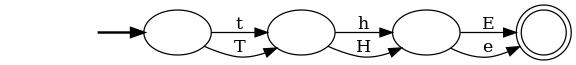
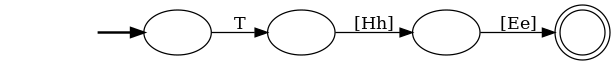
[patterns] support character classes in fsm diagrams

Changed region(s): [[0.1562, 0.0615, 1.0, 0.9538]]

diff --git a/pudzu/sandbox/patterns.py b/pudzu/sandbox/patterns.py
@@ -14,7 +14,7 @@ from itertools import product
 from pathlib import Path
 from pyparsing import printables as ascii_printables, pyparsing_unicode as ppu, srange  # type: ignore
 from tempfile import TemporaryDirectory
-from typing import cast, Any, Dict, Iterable, List, Optional, Set, Tuple, Union
+from typing import cast, Any, Dict, Iterable, List, Optional, Set, Sequence, Tuple, Union
 
 from pudzu.utils import optional_import, merge, merge_with, first  # type: ignore
 
@@ -137,6 +137,8 @@ class NFA:
         fg = "white" if console else "black"
         g = graphviz.Digraph(format="svg")
         g.attr(rankdir="LR", bgcolor=bg)
+
+        # states
         for s in self.states:
             if s == self.start:
                 g.node(str(s), root="true", label="", color=fg)
@@ -146,20 +148,35 @@ class NFA:
                 g.node(str(s), shape="doublecircle", label="", color=fg)
             else:
                 g.node(str(s), label="", color=fg)
-        # TODO: merge parallel edges into classes or ranges
+
+        # transitions
+        reverse_dict = {}
         for (s, i), ts in self.transitions.items():
             if not ts:
                 g.node(str(("fail", s)), label="", color=fg)
             for t in ts or {("fail", s)}:
-                label: str = {Move.ALL: "*", Move.EMPTY: "ε"}.get(i, i).replace("\\", "\\\\")  # type: ignore
-                if self.captures.get((s, i), set()):
-                    label += f" {{{','.join(self.captures[(s, i)])}}}"
-                g.edge(str(s), str(t), label=label, color=fg, fontcolor=fg)
+                c = frozenset(self.captures.get((s, i), set()))
+                reverse_dict.setdefault(s, {}).setdefault((t, c), set()).add(i)
+
+        for s, d in reverse_dict.items():
+            for (t, c), ii in d.items():
+                for input in (i for i in ii if isinstance(i, Move)):
+                    label = {Move.ALL: "*", Move.EMPTY: "ε"}[input]
+                    if c:
+                        label += f" {{{','.join(c)}}}"
+                    g.edge(str(s), str(t), label=label, color=fg, fontcolor=fg)
+                input = "".join(sorted(i for i in ii if isinstance(i, str)))
+                if len(input) >= 1:
+                    label = char_class(input)
+                    if c:
+                        label += f" {{{','.join(c)}}}"
+                    g.edge(str(s), str(t), label=label, color=fg, fontcolor=fg)
 
         g.render(filename=name + ".dot")
 
     def save(self, name: str, renumber_states: bool = True) -> None:
         """Save FSM as a .fsm file."""
+        # TODO: save and load capture groups
 
         def sort_key(s):
             # Q: is there a better state ordering?
@@ -179,21 +196,18 @@ class NFA:
             )
 
         with open(name + ".fsm", "w", encoding="utf-8") as f:
+            reverse_dict = {}
+            for (s, i), ts in self.transitions.items():
+                reverse_dict.setdefault(s, {}).setdefault(frozenset(ts), set()).add(i)
             for state in sorted_states:
                 from_label = label(state)
-                reverse_dict = {}
-                for (s, i), ts in self.transitions.items():
-                    if state == s:
-                        reverse_dict.setdefault(frozenset(ts), set()).add(i)
-                for ts, ii in reverse_dict.items():
+                for ts, ii in reverse_dict.get(state, {}).items():
                     to_labels = " ".join(label(t) for t in ts)
                     for input in (i for i in ii if isinstance(i, Move)):
                         print(f"{from_label} {str(input).replace('Move.','')} {to_labels}", file=f)
                     input = "".join(sorted(i for i in ii if isinstance(i, str)))
                     if len(input) >= 1:
-                        # TODO: combine into ranges when possible?
-                        input = input if len(input) == 1 else f"[{input}]"
-                        print(f"{from_label} {input} {to_labels}", file=f)
+                        print(f"{from_label} {char_class(input)} {to_labels}", file=f)
 
     def example(self, min_length: int = 0, max_length: Optional[int] = None) -> Optional[str]:
         """Generate a random matching string. Assumes NFA has been trimmed of states that can't reach the end."""
@@ -294,6 +308,12 @@ class NFA:
         # converts to a regex, though there's probably a more efficient way
         max_length = self.regex().max_length()
         return int(max_length) if math.isfinite(max_length) else None
+
+
+def char_class(chars: Sequence[str]) -> str:
+    """Generate a character class description of the given characters"""
+    # TODO: handle ranges
+    return chars if len(chars) == 1 else f"[{''.join(sorted(chars))}]"
 
 
 # NFA constructors
@@ -792,8 +812,9 @@ def MatchInsensitively(nfa: NFA) -> NFA:
         if isinstance(i, str):
             transitions.setdefault((s, i.lower()), set()).update(ts)
             transitions.setdefault((s, i.upper()), set()).update(ts)
-            captures.setdefault((s, i.lower()), set()).update(nfa.captures.get((s, i), set()))
-            captures.setdefault((s, i.upper()), set()).update(nfa.captures.get((s, i), set()))
+            if nfa.captures.get((s, i), set()):
+                captures.setdefault((s, i.lower()), set()).update(nfa.captures.get((s, i), set()))
+                captures.setdefault((s, i.upper()), set()).update(nfa.captures.get((s, i), set()))
         else:
             transitions[(s, i)] = ts
     return NFA(nfa.start, nfa.end, transitions, captures)
@@ -1313,7 +1334,7 @@ REFERENCES
     parser.add_argument("-r", dest="regex", action="store_true", help="generate a standard equivalent regex")
     parser.add_argument("-b", dest="bounds", action="store_true", help="generate lexicographic match bounds")
     group = parser.add_mutually_exclusive_group()
-    group.add_argument("-X", dest="examples_only", metavar='N', type=int, help="output N example matches and quit")
+    group.add_argument("-X", dest="examples_only", metavar="N", type=int, help="output N example matches and quit")
     group.add_argument("-R", dest="regex_only", action="store_true", help="output a standard equivalent regex and quit")
 
     args = parser.parse_args()

diff --git a/patterns.md b/patterns.md
@@ -163,14 +163,15 @@ patterns "o+h?"
 ![repetition NFA](images/repetition.png)
 
 **Case-insensitive matches**. The simplest way to implement case insensitivity
-is to simply expand all characters into two element character classes. To mark
-just a subexpression as case insensitive use the `(?i:P)` syntax. Note that this does not implement
+is to simply expand all characters into two element character classes. To mark the whole match
+case insensitive, use the `-i` parameter; to mark
+a subexpression, use the `(?i:P)` syntax. Note that this does not implement
 full Unicode case insensitivity, where string length may change between cases
 (e.g. fußball and FUSSBALL) and where case may depend on locale (e.g. in Turkish
 i uppercases to İ not I).
 
 ```bash
-patterns "(?i:The)"
+patterns "T(?i:he)"
 ```
 
 ![case-insensitive NFA](images/case.png)
